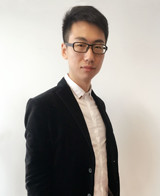
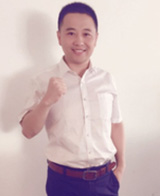
商学院资料更新

diff --git a/js/private/material_list.js b/js/private/material_list.js
@@ -133,6 +133,56 @@ var m_list = [{
     }, {
         list: [{
             id: 1,
+            url: 'http://source.aigegou.com/0820dzsw.pptx',
+            img: 'img/data/type2.jpg',
+            titles: '电子商务',
+            looknum: '88',
+            downnum: '42',
+            type: 'ppt',
+            cubage: '4.7MB',
+            time: ''
+        }, {
+            id: 2,
+            url: 'http://source.aigegou.com/0820ddg.pptx',
+            img: 'img/data/type2.jpg',
+            titles: '叮大哥项目简介（赵丽娟）',
+            looknum: '102',
+            downnum: '56',
+            type: 'ppt',
+            cubage: '3MB',
+            time: ''
+        }, {
+            id: 3,
+            url: 'http://source.aigegou.com/0820hdch.pptx',
+            img: 'img/data/type2.jpg',
+            titles: '活动策划--凡雪林',
+            looknum: '64',
+            downnum: '24',
+            type: 'ppt',
+            cubage: '1.26MB',
+            time: ''
+        }, {
+            id: 4,
+            url: 'http://source.aigegou.com/0820store.ppt',
+            img: 'img/data/type2.jpg',
+            titles: '开发商户思路',
+            looknum: '62',
+            downnum: '32',
+            type: 'ppt',
+            cubage: '689KB',
+            time: ''
+        }, {
+            id: 5,
+            url: 'http://source.aigegou.com/0820tgs.ppt',
+            img: 'img/data/type2.jpg',
+            titles: '社区推广商',
+            looknum: '89',
+            downnum: '24',
+            type: 'ppt',
+            cubage: '651KB',
+            time: ''
+        }, {
+            id: 6,
             url: 'http://source.aigegou.com/img/pxkj1.pdf',
             img: 'img/data/type4.jpg',
             titles: '爱个购智能安防',
@@ -142,7 +192,7 @@ var m_list = [{
             cubage: '1751KB',
             time: ''
         }, {
-            id: 2,
+            id: 7,
             url: 'http://source.aigegou.com/img/pxkj2.ppt',
             img: 'img/data/type2.jpg',
             titles: '沟通技巧',
@@ -152,7 +202,7 @@ var m_list = [{
             cubage: '2568KB',
             time: ''
         }, {
-            id: 3,
+            id: 8,
             url: 'http://source.aigegou.com/img/pxkj3.pdf',
             img: 'img/data/type4.jpg',
             titles: '行业培训',
@@ -162,7 +212,7 @@ var m_list = [{
             cubage: '5257KB',
             time: ''
         }, {
-            id: 4,
+            id: 9,
             url: 'http://source.aigegou.com/img/pxkj4.pdf',
             img: 'img/data/type4.jpg',
             titles: '客情维护',
@@ -172,7 +222,7 @@ var m_list = [{
             cubage: '653KB',
             time: ''
         }, {
-            id: 5,
+            id: 10,
             url: 'http://source.aigegou.com/img/pxkj5.ppt',
             img: 'img/data/type2.jpg',
             titles: '目标管理与时间管理',
@@ -182,7 +232,7 @@ var m_list = [{
             cubage: '2489KB',
             time: ''
         }, {
-            id: 6,
+            id: 11,
             url: 'http://source.aigegou.com/img/pxkj6.pdf',
             img: 'img/data/type4.jpg',
             titles: '商户面谈思路及话术',
@@ -192,7 +242,7 @@ var m_list = [{
             cubage: '923KB',
             time: ''
         }, {
-            id: 7,
+            id: 12,
             url: 'http://source.aigegou.com/img/pxkj7.pptx',
             img: 'img/data/type2.jpg',
             titles: '商务礼仪',
@@ -202,7 +252,7 @@ var m_list = [{
             cubage: '9490KB',
             time: ''
         }, {
-            id: 8,
+            id: 13,
             url: 'http://source.aigegou.com/img/pxkj8.pdf',
             img: 'img/data/type4.jpg',
             titles: '十分钟路演',
@@ -212,7 +262,7 @@ var m_list = [{
             cubage: '6048KB',
             time: ''
         }, {
-            id: 9,
+            id: 14,
             url: 'http://source.aigegou.com/img/pxkj9.pdf',
             img: 'img/data/type4.jpg',
             titles: '塑造团队',
@@ -222,7 +272,7 @@ var m_list = [{
             cubage: '2402KB',
             time: ''
         }, {
-            id: 10,
+            id: 15,
             url: 'http://source.aigegou.com/img/pxkj10.pptx',
             img: 'img/data/type2.jpg',
             titles: '拖延症',
@@ -232,7 +282,7 @@ var m_list = [{
             cubage: '2339KB',
             time: ''
         }, {
-            id: 11,
+            id: 16,
             url: 'http://source.aigegou.com/img/pxkj11.pdf',
             img: 'img/data/type4.jpg',
             titles: '运营推广演讲PPT',
@@ -242,7 +292,7 @@ var m_list = [{
             cubage: '2307KB',
             time: ''
         }, {
-            id: 12,
+            id: 17,
             url: 'http://source.aigegou.com/img/pxkj12.ppt',
             img: 'img/data/type2.jpg',
             titles: '在销售中如何运用赞美的技巧',
@@ -252,7 +302,7 @@ var m_list = [{
             cubage: '1067KB',
             time: ''
         }, {
-            id: 13,
+            id: 18,
             url: 'http://source.aigegou.com/img/pxkj13.pptx',
             img: 'img/data/type2.jpg',
             titles: '执行力',
@@ -262,7 +312,7 @@ var m_list = [{
             cubage: '187KB',
             time: ''
         }, {
-            id: 14,
+            id: 19,
             url: 'http://source.aigegou.com/img/pxkj14.ppt',
             img: 'img/data/type2.jpg',
             titles: '职业经理人晋职',
@@ -272,7 +322,7 @@ var m_list = [{
             cubage: '486KB',
             time: ''
         }, {
-            id: 15,
+            id: 20,
             url: 'http://source.aigegou.com/img/pxkj15.pptx',
             img: 'img/data/type2.jpg',
             titles: '职业素养塑造',
@@ -282,7 +332,7 @@ var m_list = [{
             cubage: '2142KB',
             time: ''
         }, {
-            id: 16,
+            id: 21,
             url: 'http://source.aigegou.com/img/pxkj16.ppt',
             img: 'img/data/type2.jpg',
             titles: '做不被竞争淘汰的人',

diff --git a/js/private/list.js b/js/private/list.js
@@ -1,9 +1,9 @@
 var school = [{
-    mp4: 'http://7xntr9.media1.z0.glb.clouddn.com/agg_birthday.mp4',
-    img: 'img/data/img1.jpg',
-    titles: '员工生日会',
+    mp4: 'http://7xntr9.media1.z0.glb.clouddn.com/0820gqqy.mp4',
+    img: 'img/data/img10.jpg',
+    titles: '股权签约仪式暨公司成立三周年庆典',
     typer:'mp4',
-    num: '13456'
+    num: '485'
 }, {
     mp4: 'http://7xntr9.media1.z0.glb.clouddn.com/agg_ds.mp4',
     img: 'img/data/img2.jpg',
@@ -95,43 +95,59 @@ var course = [
     ],
     //管理类
     [{
-        mp4: 'http://7xntr9.media1.z0.glb.clouddn.com/agg_hs.mp4',
+        mp4: 'http://7xntr9.media1.z0.glb.clouddn.com/0820sqtgs.mp4',
+        img: 'img/data/market9.jpg',
+        titles: '社区推广商',
+        title2: '',
+        num: '246',
+        typer:'mp4',
+        row:'2'
+    }, {
+        mp4: 'http://7xntr9.media1.z0.glb.clouddn.com/0820scch.mp4',
         img: 'img/data/market1.jpg',
-        titles: '开发商户思路及话术：和商户面谈流程，沟通思路',
+        titles: '凡雪林：市场策划及方案',
         title2: '',
         num: '5454',
         typer:'mp4',
         row:'2'
     }, {
-        mp4: 'http://7xntr9.media1.z0.glb.clouddn.com/agg_project.mp4',
+        mp4: 'http://7xntr9.media1.z0.glb.clouddn.com/0820hyzx.mp4',
         img: 'img/data/market2.jpg',
-        titles: '行业资讯：互联网发展史，行业资讯',
+        titles: '苗吉祥：行业资讯',
         title2: '',
         num: '5478',
         typer:'mp4',
         row:'2'
     }, {
-        mp4: 'http://7xntr9.media1.z0.glb.clouddn.com/agg_client.mp4',
+        mp4: 'http://7xntr9.media1.z0.glb.clouddn.com/0820kqwh.mp4',
         img: 'img/data/market3.jpg',
-        titles: '客情维护：重视客情关怀，客户关系管理',
+        titles: '苗吉祥：客情维护',
         title2: '',
         num: '6865',
         typer:'mp4',
         row:'2'
     }, {
-        mp4: 'http://7xntr9.media1.z0.glb.clouddn.com/agg_band.mp4',
+        mp4: 'http://7xntr9.media1.z0.glb.clouddn.com/0820ppyx.mp4',
         img: 'img/data/market4.jpg',
-        titles: '品牌运营：线上线下推广，网站建立，品牌管理',
+        titles: '刘尧尧：品牌营销',
         title2: '',
         num: '7856',
         typer:'mp4',
         row:'2'
     }, {
-        mp4: 'http://7xntr9.media1.z0.glb.clouddn.com/agg_shop_yw.mp4',
+        mp4: 'http://7xntr9.media1.z0.glb.clouddn.com/0820dszs.mp4',
         img: 'img/data/market5.jpg',
-        titles: '电商知识：商城入驻，易卖会情况介绍',
+        titles: '钱吉：电商知识',
         title2: '',
         num: '1237',
+        typer:'mp4',
+        row:'2'
+    }, {
+        mp4: 'http://7xntr9.media1.z0.glb.clouddn.com/0820ddg.mp4',
+        img: 'img/data/market8.jpg',
+        titles: '叮大哥项目简介',
+        title2: '',
+        num: '324',
         typer:'mp4',
         row:'2'
     }, {
@@ -144,15 +160,31 @@ var course = [
         row:'2'
     }, {
         mp4: 'http://7xntr9.media1.z0.glb.clouddn.com/agg_store_manage.mp4',
-        img: 'img/data/market6.jpg',
+        img: 'img/data/market7.jpg',
         titles: '后台系统操作：商户后台操作演示',
         title2: '',
         num: '8765',
         typer:'mp4',
         row:'2'
+    }, {
+        mp4: 'http://7xl21j.com1.z0.glb.clouddn.com/20160616_store.mp3',
+        img: 'img/data/market10.jpg',
+        titles: '2016.6.16 yy培训录音商户开发',
+        title2: '',
+        num: '351',
+        typer:'mp4',
+        row:'2'
     }],
     //开拓市场类
     [{
+        mp4: 'http://7xntr9.media1.z0.glb.clouddn.com/0820gqqy.mp4',
+        img: 'img/data/img10.jpg',
+        titles: '股权签约仪式暨公司成立三周年庆典',
+        title2: '',
+        num: '485',
+        typer:'mp4',
+        row:'3'
+    },{
         mp4: 'http://7xntr9.media1.z0.glb.clouddn.com/agg_jthy.mp4',
         img: 'img/data/img9.jpg',
         titles: '爱个购家庭会议之第二季度工作重点',

diff --git a/js/page/teacher.js b/js/page/teacher.js
@@ -8,9 +8,9 @@ define(['jquery'], function($) {
         },
         {
             image:"img/data/teacher2.jpg",
-            name:"王楠",
-            title:"爱个购商学院金牌讲师 爱个购商学院培训经理 国家级二级企业培训师",
-            desc:"曾担任万斯品牌培训师、蜗牛公司文化及专业培训负责人，企业文化主讲师等在职期间参与上海交大EMBA培训，师从余世维，余明阳等多位培训师，并取得结业证书擅长搭建企业培训体系及文化建设，主讲课程有《团队管理》、《企业文化变革》、《优秀领导者素养》等"
+            name:"李磊",
+            title:"爱个购商学院金牌讲师 爱个购商学院培训主管 国家级二级企业培训师",
+            desc:"2007年-2016年担任海澜之家股份有限公司资深培训师、吴通控股集团股份有限公司培训主管，擅长搭建企业培训体系及文化建设，课程开发与授课，储备队伍培养等。主讲课程有《团队管理》、《企业文化》、《优秀管理人员之亲和力》、《执行力》、《职场沟通技巧》、《终端门店销售技巧》、《连带销售技巧》等。"
         },
         {
             image:"img/data/teacher3.jpg",
@@ -35,18 +35,6 @@ define(['jquery'], function($) {
             name:"苗吉祥",
             title:"负责渠道管理工作，负责爱个购O2O项目解答",
             desc:"6年一线渠道销售工作，4年互联网从业经验，合伙创业互联网金融平台，有大量互联网推广、运营、实操经验;销售管理课程培训;互联网普及培训;后期市场运营培训课程等。"
-        },
-        {
-            image:"img/data/teacher7.jpg",
-            name:"尤广文",
-            title:"负责渠道管理工作，负责爱个购O2O项目解答",
-            desc:"互联网4年多，就职北京窝窝团信息科技有限公司;团队每年都是销售冠军，积累了大量终端市场运作经验; HR管理培训;销售课程培训;后期市场运营培训课程等。"
-        },
-        {
-            image:"img/data/teacher8.jpg",
-            name:"崔正东",
-            title:"负责渠道管理工作，负责爱个购O2O项目解答",
-            desc:"曾在无锡新创力任大区经理，主要负责外资企业物流设备项目以及招标;曾利用15万资金成立弗瑞汽车用品有限公司,四年时间从最初的营业额十几万做到350多万;熟读MBA企业管理课程,同时在无锡工作期间应邀给南京造币厂，南京大旺，南京百事可乐等企业做过一系列培训;从事市场工作长达6年之久，具有丰富的从业经验;6年的实体销售渠道，期间给代理商集中培训35场,每年团队销售额为4亿;"
         },
         {
             image:"img/data/teacher9.jpg",

diff --git a/school.html b/school.html
@@ -94,11 +94,11 @@
                 <ul>
                     <li>
                         <div class="hot-class-img">
-                            <img src="img/data/img1.jpg" />
+                            <img src="img/data/img10.jpg" />
                         </div>
                         <div class="hot-class-footer">
-                            <p>员工生日会</p>
-                            <p><span>13456</span>人学习</p>
+                            <p>股权签约仪式暨公司成立三周年庆典</p>
+                            <p><span>485</span>人学习</p>
                         </div>
                     </li>
                     <li>

diff --git a/vedio.html b/vedio.html
@@ -57,11 +57,11 @@
             <ul>
                 <li>
                     <div class="hot-class-img">
-                        <img src="img/data/img1.jpg" />
+                        <img src="img/data/img10.jpg" />
                     </div>
                     <div class="hot-class-footer">
-                        <p>员工生日会</p>
-                        <p><span>13456</span>人学习</p>
+                        <p>股权签约仪式暨公司成立三周年庆典</p>
+                        <p><span>485</span>人学习</p>
                     </div>
                 </li>
                 <li>

diff --git a/js/public/header.js b/js/public/header.js
@@ -179,7 +179,7 @@ define(['jquery'], function($) {
         var user = document.getElementById('username').value;
         var pass = document.getElementById('password').value;
         $.ajax({
-            url: "http://www.51aigegou.cn/aigegou/ws/webLogin",
+            url: "http://shop.aigegou.com/agg/mobile/index.php?act=unlimited_invitation&op=agent_login",
             type: "post",
             data: { "code": user, 'password': pass },
             dataType: "jsonp",
